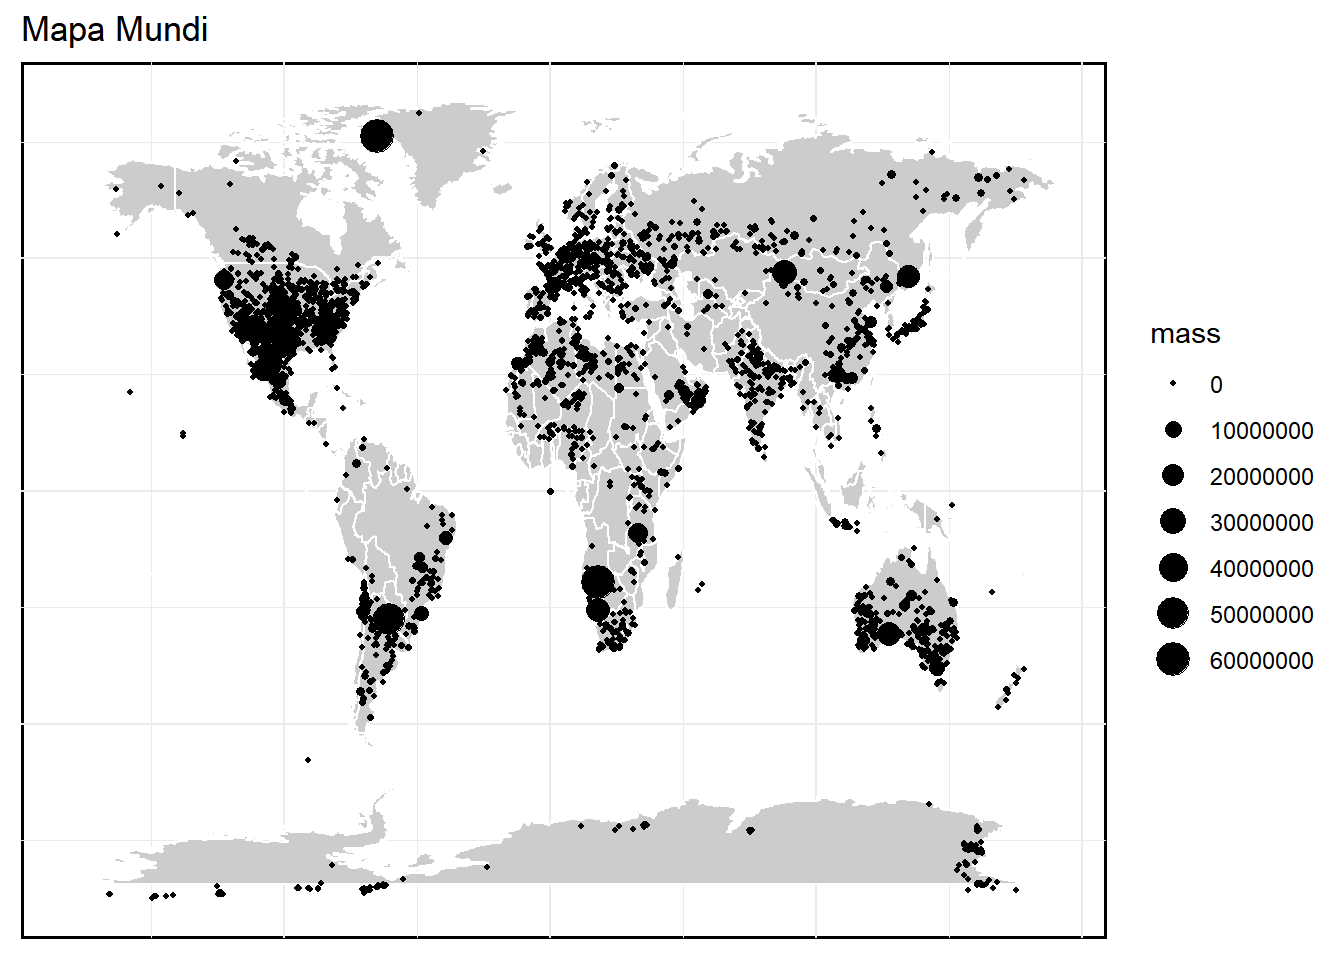
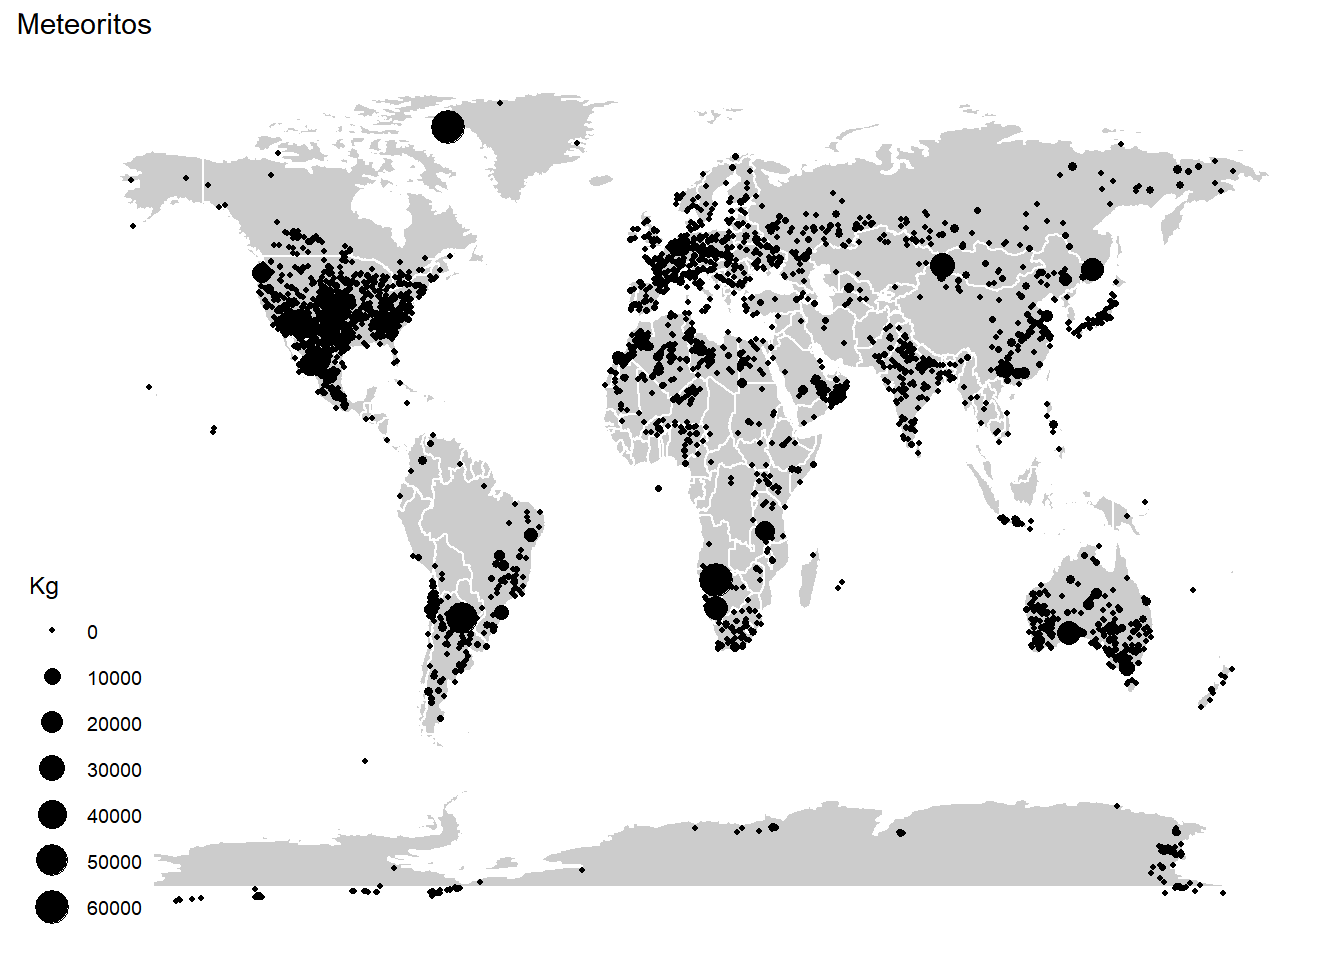
cuarto post

diff --git a/public/mapa_coordenadas/index.html b/public/mapa_coordenadas/index.html
@@ -229,33 +229,110 @@ meteoritos &lt;- readr::read_csv(&quot;https://raw.githubusercontent.com/rfordat
 ##   geolocation = col_character()
 ## )
 
+# Quitamos los elementos que faltan (na´s) para la representación gráfica
+
 meteoritos_mapa &lt;- meteoritos %&gt;%
   drop_na()</code></pre>
 <p> </p>
-<p>En primer lugar vamos a representar todos los meteoritos en el mapa del mundo, tanto los que se han detectado al caer (fell) como los encontrados (found)</p>
+<p>En primer lugar vamos a representar <strong>todos los meteoritos en el mapa del mundo</strong>, tanto los que se han detectado al caer (fell) como los encontrados (found). Para ello utilizaremos el <code>theme_map()</code> visto en el punto anterior y añadiremos un <code>geom_point()</code> con información de los meteoritos.</p>
 <p><br />
 </p>
 <pre class="r"><code>
-
 options(scipen = 999) # para evitar la anotación científica 
 
-
+# Graficamos indicando 
 
 mapa_mundo %&gt;%
   ggplot() +
   geom_polygon(aes( x= long, y = lat, group = group),
                fill = &quot;grey80&quot;,
                color = &quot;white&quot;) +
-  geom_point(data= meteoritos_mapa, aes(x=long, y = lat, size = mass), stroke = F) +
-  theme_minimal() +
+  geom_point(data= meteoritos_mapa, 
+             aes(x=long, y = lat, size = mass/1000), 
+             stroke = F) +
+  scale_size_continuous(name = &quot;Kg&quot;) +
+  ggtitle( &quot;Meteoritos&quot;) +
+  theme_map()</code></pre>
+<p><img src="/mapa_coordenadas_files/figure-html/unnamed-chunk-7-1.png" width="80%" style="display: block; margin: auto;" /></p>
+<p> </p>
+<p>Existe como vemos una gran diferencia de tamaño entre los meteoritos incluidos en el dataframe. Veamos, por curiosidad, cuales son los meteoritos de más de 30mil kilos:</p>
+<p><br />
+</p>
+<pre class="r"><code>
+meteoritos %&gt;%
+  select(name, year, mass, fall) %&gt;%
+  filter( mass &gt; 30000000) %&gt;%
+  arrange(desc(mass))
+## # A tibble: 3 x 4
+##   name             year     mass fall 
+##   &lt;chr&gt;           &lt;dbl&gt;    &lt;dbl&gt; &lt;chr&gt;
+## 1 Hoba             1920 60000000 Found
+## 2 Cape York        1818 58200000 Found
+## 3 Campo del Cielo  1575 50000000 Found</code></pre>
+<p><br />
+</p>
+<p>Hoba, Cape York y Campo del Cielo, meteoritos encontrados en Namibia, Groenlandia y Argentina respectivamente, son los meteoritos de mayor masa. Se puede ver una foto de ellos en el siguiente <a href="https://en.wikipedia.org/wiki/List_of_largest_meteorites_on_Earth">enlace</a>.</p>
+<p><br />
+</p>
+<p>Para <strong>diferenciar los meteoritos caidos (fell) y los encontrados (found)</strong> podemos asociar a cada uno de ellos un color de la siguiente forma:</p>
+<p><br />
+</p>
+<pre class="r"><code>
+mapa_mundo %&gt;%
+  ggplot() +
+  geom_polygon(aes( x= long, y = lat, group = group),
+               fill = &quot;grey80&quot;,
+               color = &quot;white&quot;) +
+  geom_point(data= meteoritos_mapa, 
+             aes(x=long, y = lat, size = mass/1000, color = fall), 
+             stroke = F) +
+  scale_color_manual(values = c( &quot;black&quot;, &quot;orange&quot;), name = &quot; &quot;) + 
+  scale_size_continuous(name = &quot;Kg&quot;) +
+  ggtitle( &quot;Meteoritos caídos y encontrados&quot;) +
+  theme_map()</code></pre>
+<p><img src="/mapa_coordenadas_files/figure-html/unnamed-chunk-9-1.png" width="80%" style="display: block; margin: auto;" /></p>
+<p><br />
+</p>
+<p>Para visualizar los <strong>meteoritos en una región determinada</strong> del globo debemos indicar las coordenadas tal y como se expuso previamente. Pongamos por ejemplo que nos interesa visualizar los <strong>meteoritos caídos (fell) en Europa</strong> podemos indicar los siguientes comandos:</p>
+<p><br />
+</p>
+<pre class="r"><code>
+# seleccionamos los meteoritos que nos interesa graficar
+
+meteoritos_Europa &lt;- meteoritos %&gt;%
+  filter(fall == &quot;Fell&quot;) %&gt;%
+  drop_na() %&gt;%
+  filter(between(long, -12, 25),
+         between(lat, 35, 65)) %&gt;%
+  arrange(mass)
+
+
+# graficamos en un mapa de Europa
+
+mapa_mundo %&gt;%
+  ggplot() + 
+  geom_polygon(aes(x=long, y=lat, group=group),
+               fill= &quot;grey80&quot;, color=&quot;white&quot;) +
+  geom_point(data=meteoritos_Europa, aes(x=long, 
+                                         y=lat, 
+                                         size= mass/1000, 
+                                         color= mass/1000), stroke=F) +
+  coord_fixed(xlim= c(-12,25),
+              ylim= c(35,65),
+              ratio= 1.3)+
+  ggtitle(&quot;Caída de meteoritos en Europa&quot;) +
+  scale_size_continuous(name = &quot;kg&quot;) +
+  scale_color_gradient(low= &quot;orange&quot;, high= &quot;brown&quot;, name= &quot;Kg&quot;) +
+  guides(color= guide_legend()) +
+  theme_classic() +
   theme(
     axis.line = element_blank(),
     axis.text = element_blank(),
     axis.title = element_blank(),
     axis.ticks = element_blank(),
-    panel.background = element_rect(colour= &quot;black&quot;, size= 1)) +
-  ggtitle( &quot;Mapa Mundi&quot;) </code></pre>
-<p><img src="/mapa_coordenadas_files/figure-html/unnamed-chunk-7-1.png" width="80%" style="display: block; margin: auto;" /></p>
+    panel.background = element_rect(colour= &quot;grey&quot;, size= 1, fill= NA)
+  ) </code></pre>
+<p><img src="/mapa_coordenadas_files/figure-html/unnamed-chunk-10-1.png" width="70%" style="display: block; margin: auto;" /></p>
 </div>
 
                 </section>

diff --git a/content/mapa_coordenadas.html b/content/mapa_coordenadas.html
@@ -147,31 +147,108 @@ meteoritos &lt;- readr::read_csv(&quot;https://raw.githubusercontent.com/rfordat
 ##   geolocation = col_character()
 ## )
 
+# Quitamos los elementos que faltan (na´s) para la representación gráfica
+
 meteoritos_mapa &lt;- meteoritos %&gt;%
   drop_na()</code></pre>
 <p> </p>
-<p>En primer lugar vamos a representar todos los meteoritos en el mapa del mundo, tanto los que se han detectado al caer (fell) como los encontrados (found)</p>
+<p>En primer lugar vamos a representar <strong>todos los meteoritos en el mapa del mundo</strong>, tanto los que se han detectado al caer (fell) como los encontrados (found). Para ello utilizaremos el <code>theme_map()</code> visto en el punto anterior y añadiremos un <code>geom_point()</code> con información de los meteoritos.</p>
 <p><br />
 </p>
 <pre class="r"><code>
-
 options(scipen = 999) # para evitar la anotación científica 
 
-
+# Graficamos indicando 
 
 mapa_mundo %&gt;%
   ggplot() +
   geom_polygon(aes( x= long, y = lat, group = group),
                fill = &quot;grey80&quot;,
                color = &quot;white&quot;) +
-  geom_point(data= meteoritos_mapa, aes(x=long, y = lat, size = mass), stroke = F) +
-  theme_minimal() +
+  geom_point(data= meteoritos_mapa, 
+             aes(x=long, y = lat, size = mass/1000), 
+             stroke = F) +
+  scale_size_continuous(name = &quot;Kg&quot;) +
+  ggtitle( &quot;Meteoritos&quot;) +
+  theme_map()</code></pre>
+<p><img src="/mapa_coordenadas_files/figure-html/unnamed-chunk-7-1.png" width="80%" style="display: block; margin: auto;" /></p>
+<p> </p>
+<p>Existe como vemos una gran diferencia de tamaño entre los meteoritos incluidos en el dataframe. Veamos, por curiosidad, cuales son los meteoritos de más de 30mil kilos:</p>
+<p><br />
+</p>
+<pre class="r"><code>
+meteoritos %&gt;%
+  select(name, year, mass, fall) %&gt;%
+  filter( mass &gt; 30000000) %&gt;%
+  arrange(desc(mass))
+## # A tibble: 3 x 4
+##   name             year     mass fall 
+##   &lt;chr&gt;           &lt;dbl&gt;    &lt;dbl&gt; &lt;chr&gt;
+## 1 Hoba             1920 60000000 Found
+## 2 Cape York        1818 58200000 Found
+## 3 Campo del Cielo  1575 50000000 Found</code></pre>
+<p><br />
+</p>
+<p>Hoba, Cape York y Campo del Cielo, meteoritos encontrados en Namibia, Groenlandia y Argentina respectivamente, son los meteoritos de mayor masa. Se puede ver una foto de ellos en el siguiente <a href="https://en.wikipedia.org/wiki/List_of_largest_meteorites_on_Earth">enlace</a>.</p>
+<p><br />
+</p>
+<p>Para <strong>diferenciar los meteoritos caidos (fell) y los encontrados (found)</strong> podemos asociar a cada uno de ellos un color de la siguiente forma:</p>
+<p><br />
+</p>
+<pre class="r"><code>
+mapa_mundo %&gt;%
+  ggplot() +
+  geom_polygon(aes( x= long, y = lat, group = group),
+               fill = &quot;grey80&quot;,
+               color = &quot;white&quot;) +
+  geom_point(data= meteoritos_mapa, 
+             aes(x=long, y = lat, size = mass/1000, color = fall), 
+             stroke = F) +
+  scale_color_manual(values = c( &quot;black&quot;, &quot;orange&quot;), name = &quot; &quot;) + 
+  scale_size_continuous(name = &quot;Kg&quot;) +
+  ggtitle( &quot;Meteoritos caídos y encontrados&quot;) +
+  theme_map()</code></pre>
+<p><img src="/mapa_coordenadas_files/figure-html/unnamed-chunk-9-1.png" width="80%" style="display: block; margin: auto;" /></p>
+<p><br />
+</p>
+<p>Para visualizar los <strong>meteoritos en una región determinada</strong> del globo debemos indicar las coordenadas tal y como se expuso previamente. Pongamos por ejemplo que nos interesa visualizar los <strong>meteoritos caídos (fell) en Europa</strong> podemos indicar los siguientes comandos:</p>
+<p><br />
+</p>
+<pre class="r"><code>
+# seleccionamos los meteoritos que nos interesa graficar
+
+meteoritos_Europa &lt;- meteoritos %&gt;%
+  filter(fall == &quot;Fell&quot;) %&gt;%
+  drop_na() %&gt;%
+  filter(between(long, -12, 25),
+         between(lat, 35, 65)) %&gt;%
+  arrange(mass)
+
+
+# graficamos en un mapa de Europa
+
+mapa_mundo %&gt;%
+  ggplot() + 
+  geom_polygon(aes(x=long, y=lat, group=group),
+               fill= &quot;grey80&quot;, color=&quot;white&quot;) +
+  geom_point(data=meteoritos_Europa, aes(x=long, 
+                                         y=lat, 
+                                         size= mass/1000, 
+                                         color= mass/1000), stroke=F) +
+  coord_fixed(xlim= c(-12,25),
+              ylim= c(35,65),
+              ratio= 1.3)+
+  ggtitle(&quot;Caída de meteoritos en Europa&quot;) +
+  scale_size_continuous(name = &quot;kg&quot;) +
+  scale_color_gradient(low= &quot;orange&quot;, high= &quot;brown&quot;, name= &quot;Kg&quot;) +
+  guides(color= guide_legend()) +
+  theme_classic() +
   theme(
     axis.line = element_blank(),
     axis.text = element_blank(),
     axis.title = element_blank(),
     axis.ticks = element_blank(),
-    panel.background = element_rect(colour= &quot;black&quot;, size= 1)) +
-  ggtitle( &quot;Mapa Mundi&quot;) </code></pre>
-<p><img src="/mapa_coordenadas_files/figure-html/unnamed-chunk-7-1.png" width="80%" style="display: block; margin: auto;" /></p>
+    panel.background = element_rect(colour= &quot;grey&quot;, size= 1, fill= NA)
+  ) </code></pre>
+<p><img src="/mapa_coordenadas_files/figure-html/unnamed-chunk-10-1.png" width="70%" style="display: block; margin: auto;" /></p>
 </div>
